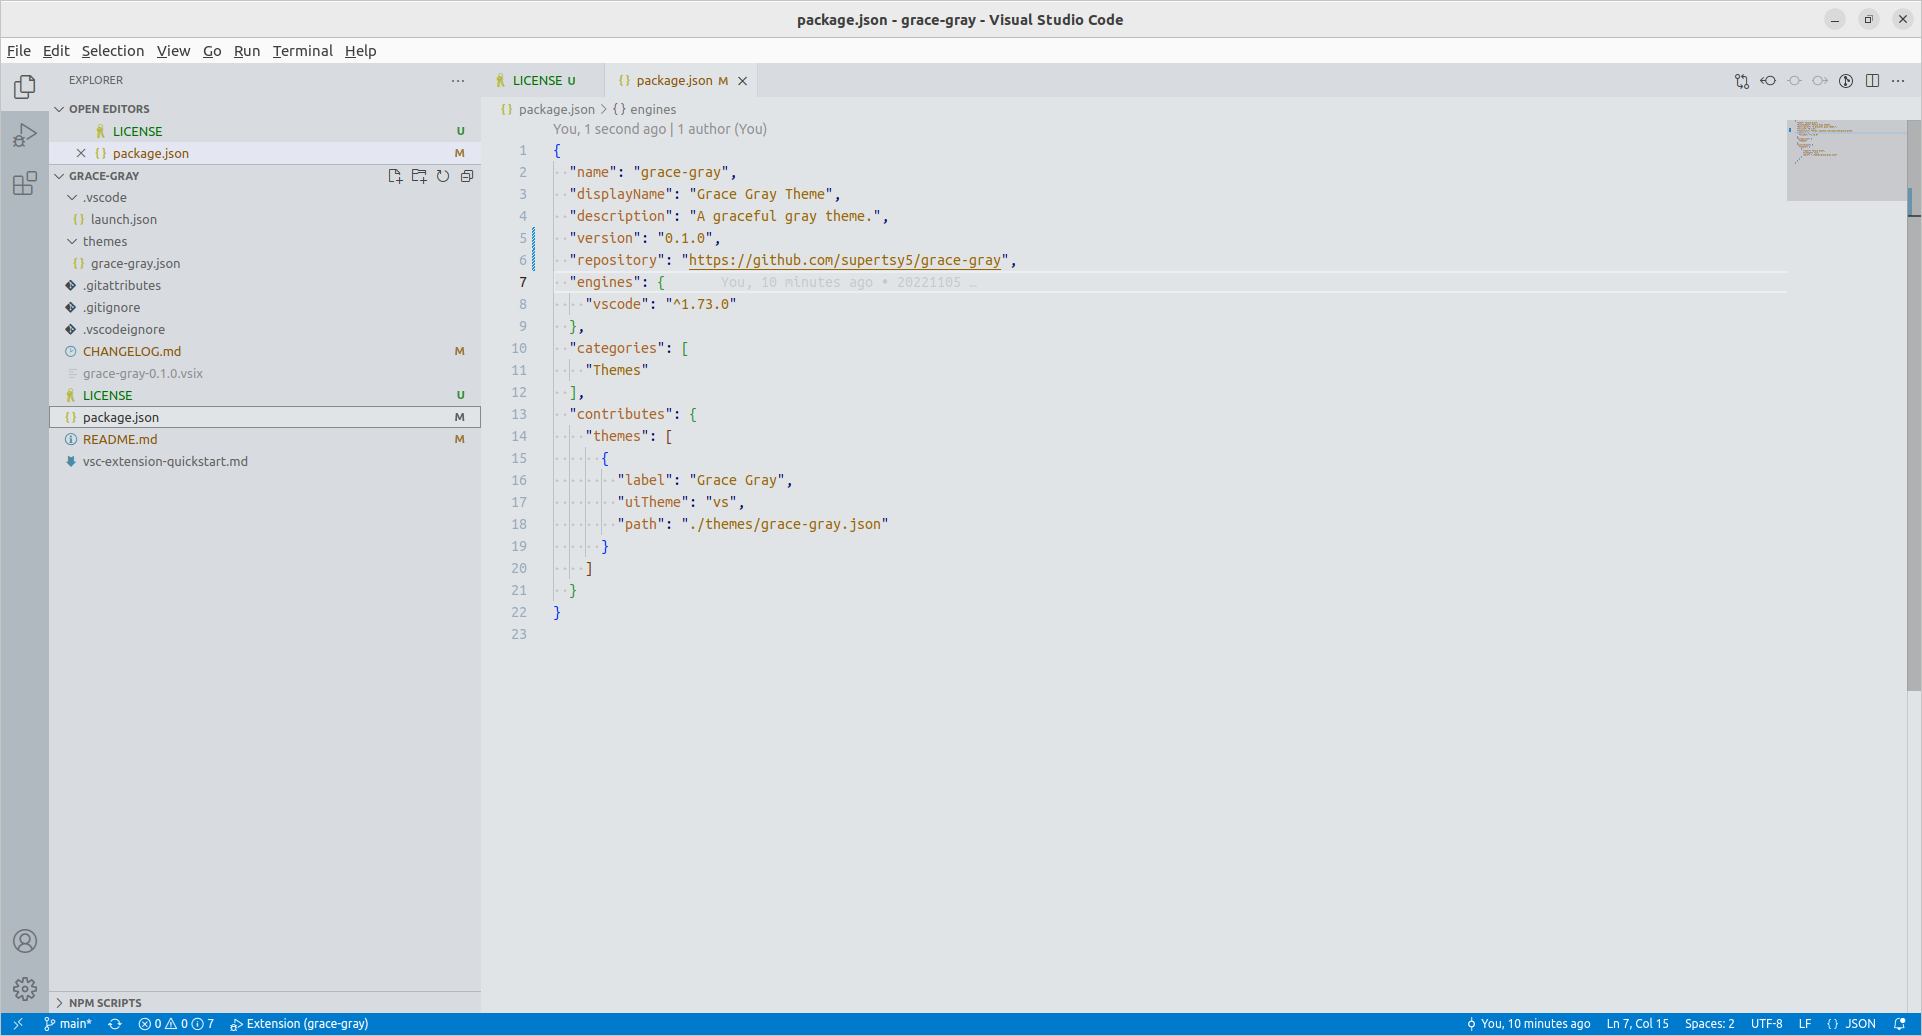
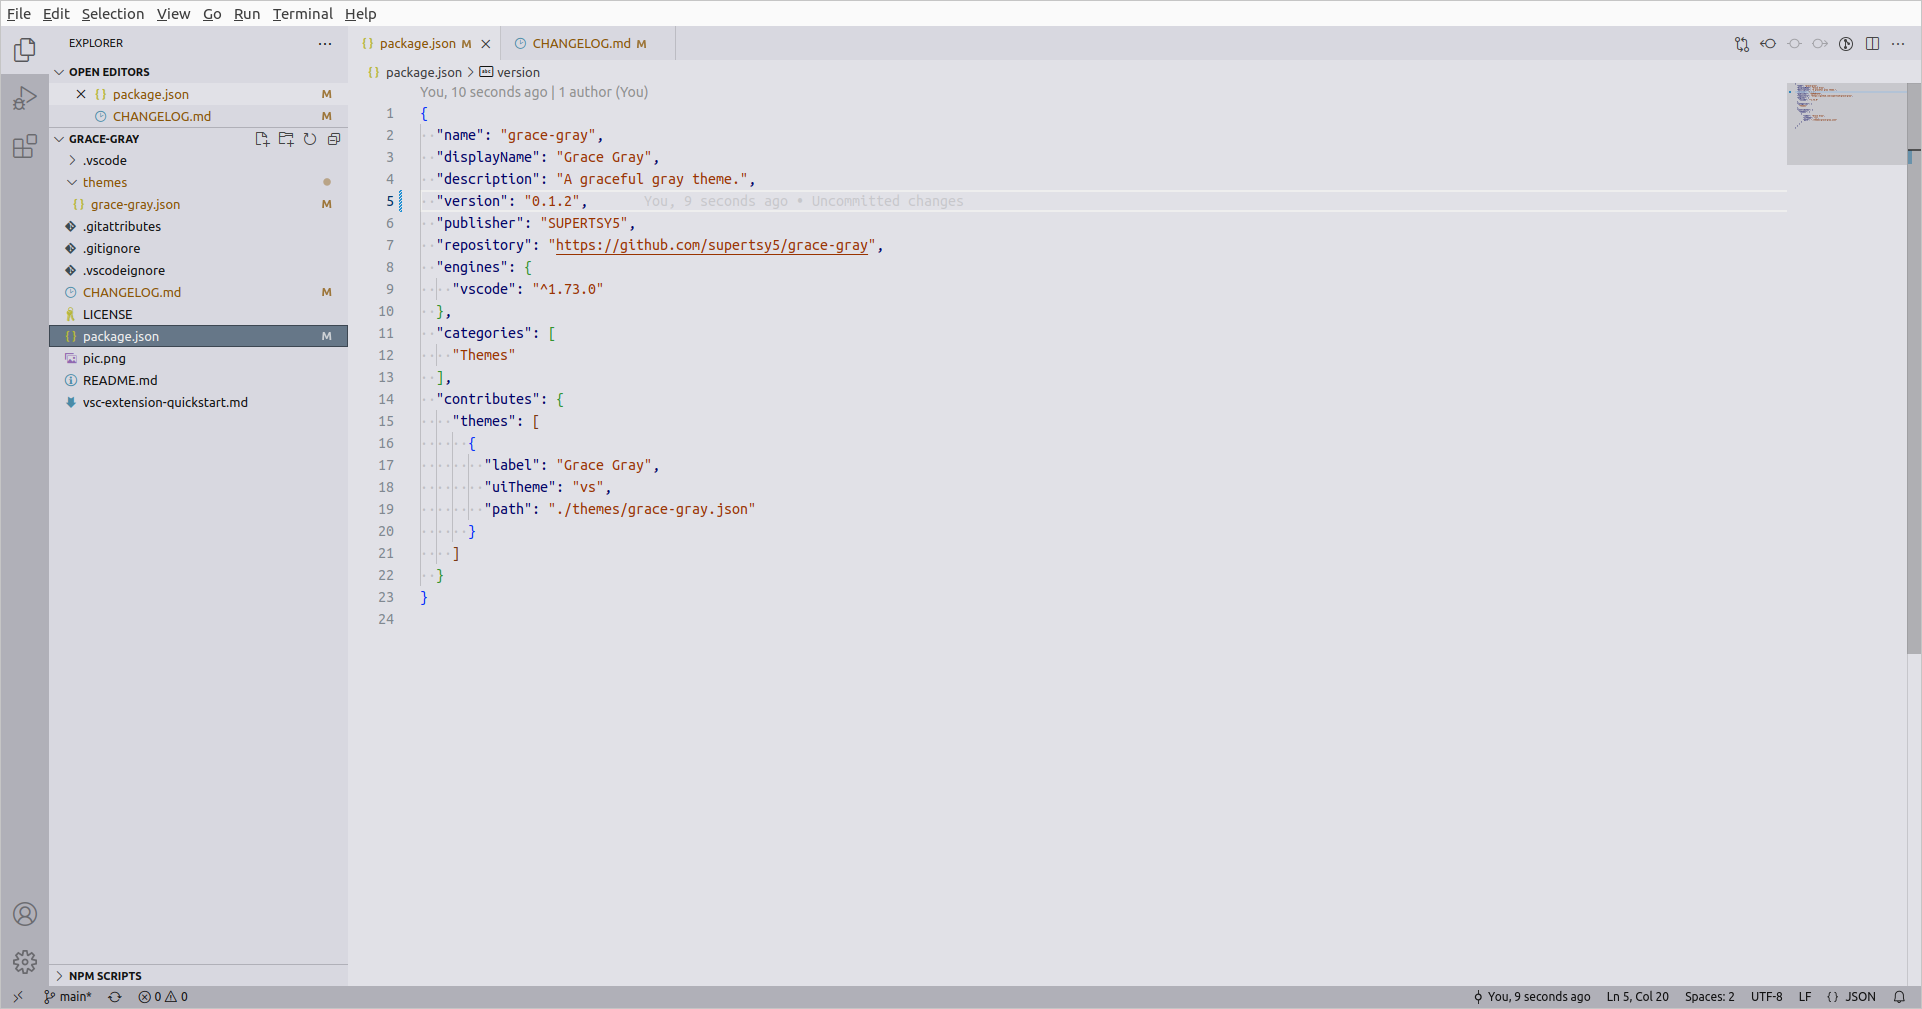
20221107

diff --git a/CHANGELOG.md b/CHANGELOG.md
@@ -4,9 +4,10 @@ All notable changes to the "grace-gray" extension will be documented in this fil
 
 Check [Keep a Changelog](http://keepachangelog.com/) for recommendations on how to structure this file.
 
+## [0.1.2]
+- Changed colors
 ## [0.1.1]
-Updated extension name and README.md
+- Changed extension name and README.md
 
 ## [0.1.0]
-
 - Initial release
